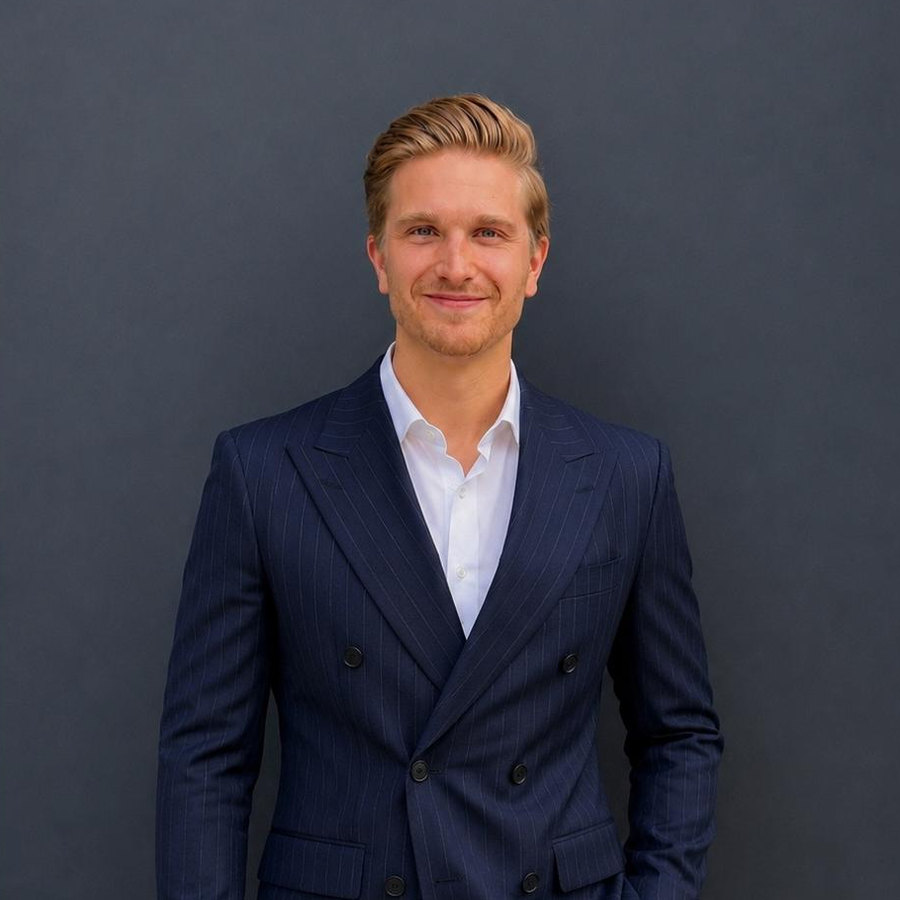
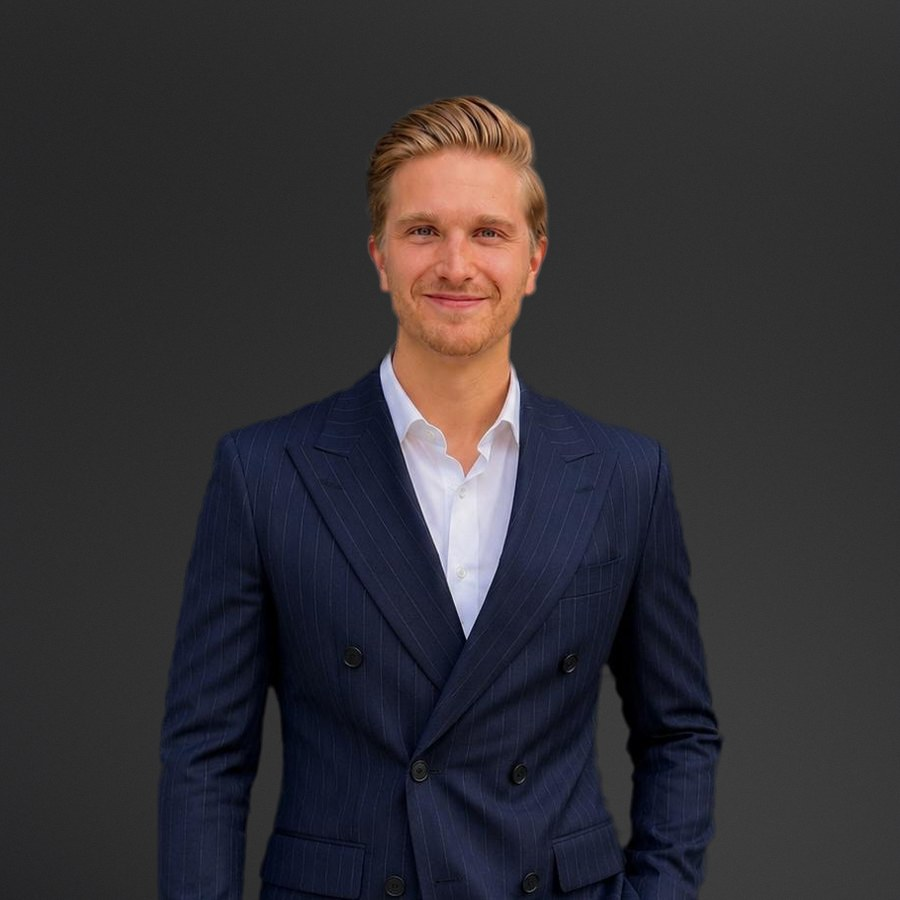
Neue Adresse Frankentalerstrasse 54, 8049 Zürich; Kevin Kigle (Partner) auf Über-uns; Porträts mit dunklem Hintergrund

diff --git a/src/pages/UeberUnsPage.tsx b/src/pages/UeberUnsPage.tsx
@@ -2,6 +2,7 @@ import { motion } from "framer-motion";
 import { Linkedin } from "lucide-react";
 import { Helmet } from "react-helmet-async";
 import maxImg from "@/assets/max-schoenpflug-portrait.jpeg";
+import kevinImg from "@/assets/kevin-kigle-portrait.jpeg";
 import Seo from "@/components/Seo";
 
 const aboutSchema = {
@@ -132,6 +133,48 @@ export default function UeberUnsPage() {
                   <Linkedin className="h-4 w-4" />
                   LinkedIn
                 </a>
+              </div>
+            </motion.div>
+          </div>
+          <div className="mt-24 md:mt-32 max-w-4xl md:ml-auto">
+            <motion.p {...fadeUp} className="mb-8 text-xs font-bold uppercase tracking-[0.3em] text-accent md:text-right">
+              Partner
+            </motion.p>
+            <motion.div
+              initial={{ opacity: 0, y: 40 }}
+              whileInView={{ opacity: 1, y: 0 }}
+              viewport={{ once: true }}
+              transition={{ duration: 0.6 }}
+              className="grid md:grid-cols-[1fr_320px] gap-8 md:gap-12 items-start"
+            >
+              <div className="order-2 md:order-1 md:text-right">
+                <h3 className="text-2xl md:text-3xl font-bold uppercase tracking-tight">Kevin Kigle</h3>
+                <p className="mt-6 text-justify text-lg font-light leading-relaxed text-brand-surface-foreground/72">
+                  Ich kenne die Besetzung von Stellen aus drei Blickwinkeln. In der Personalabteilung eines Unternehmens, im Austausch mit den Fachabteilungen, die am Ende mit der neuen Person arbeiten und als Berater von aussen. Dabei ist mir aufgefallen, dass diese drei Seiten oft aneinander vorbeireden.
+                </p>
+                <p className="mt-4 text-justify text-lg font-light leading-relaxed text-brand-surface-foreground/72">
+                  Mit ScaleZ möchte ich das ändern und Klartext reden!
+                </p>
+                <a
+                  href="https://www.linkedin.com/in/kevin-kigle/"
+                  target="_blank"
+                  rel="noreferrer"
+                  className="mt-8 inline-flex items-center gap-2 border border-accent px-4 py-2.5 text-xs font-bold uppercase tracking-[0.15em] text-accent transition-colors hover:bg-accent hover:text-accent-foreground"
+                >
+                  <Linkedin className="h-4 w-4" />
+                  LinkedIn
+                </a>
+              </div>
+              <div className="order-1 md:order-2 aspect-square overflow-hidden bg-brand-surface-foreground/10">
+                <img
+                  src={kevinImg}
+                  alt="Kevin Kigle – Partner bei ScaleZ"
+                  width="900"
+                  height="900"
+                  loading="lazy"
+                  decoding="async"
+                  className="w-full h-full object-cover"
+                />
               </div>
             </motion.div>
           </div>

diff --git a/src/pages/ImpressumPage.tsx b/src/pages/ImpressumPage.tsx
@@ -13,7 +13,7 @@ export default function ImpressumPage() {
     <>
       <Seo
         title="Impressum – ScaleZ GmbH"
-        description="Impressum der ScaleZ GmbH, Eggbühlstrasse 24, 8050 Zürich. Angaben zu Geschäftsführung und Handelsregister."
+        description="Impressum der ScaleZ GmbH, Frankentalerstrasse 54, 8049 Zürich. Angaben zu Geschäftsführung und Handelsregister."
         path="/impressum"
       />
       <section className="pt-32 pb-14">
@@ -37,8 +37,8 @@ export default function ImpressumPage() {
               <p className="mb-4 text-xs font-bold uppercase tracking-[0.3em] text-accent">Unternehmen</p>
               <div className="space-y-2 font-light leading-relaxed text-muted-foreground">
                 <p>ScaleZ GmbH</p>
-                <p>Eggbühlstrasse 24</p>
-                <p>8050 Zürich</p>
+                <p>Frankentalerstrasse 54</p>
+                <p>8049 Zürich</p>
                 <p>Schweiz</p>
               </div>
             </motion.section>

diff --git a/src/components/PrivacyNotice.tsx b/src/components/PrivacyNotice.tsx
@@ -8,7 +8,7 @@ export default function PrivacyNotice({ retention }: Props) {
   return (
     <div className="rounded-sm border border-border bg-muted/30 p-3 text-[11px] leading-relaxed text-muted-foreground">
       <strong className="text-foreground">Datenschutz-Kurzinfo:</strong> Verantwortlich ist die
-      ScaleZ GmbH, Eggbühlstrasse 24, 8050 Zürich. Wir verarbeiten deine Angaben zur Bearbeitung
+      ScaleZ GmbH, Frankentalerstrasse 54, 8049 Zürich. Wir verarbeiten deine Angaben zur Bearbeitung
       deiner Anfrage auf Grundlage von Art. 6 Abs. 1 lit. b und f DSGVO sowie Art. 31 revDSG, bei
       Bewerbungsunterlagen zusätzlich auf Grundlage deiner Einwilligung. Empfänger sind Brevo
       (E-Mail-Versand, EU), Cloudflare (Hosting, DPF) und Microsoft 365 (E-Mail-Empfang).

diff --git a/src/pages/DatenschutzPage.tsx b/src/pages/DatenschutzPage.tsx
@@ -10,7 +10,7 @@ const fadeUp = {
 
 const headerLines = [
   "ScaleZ GmbH",
-  "Eggbühlstrasse 24, 8050 Zürich, Schweiz",
+  "Frankentalerstrasse 54, 8049 Zürich, Schweiz",
   "E-Mail: info@scale-z.ch · Telefon: +41 79 704 60 00",
   "Stand: 04.2026",
 ];
@@ -29,8 +29,8 @@ const sections = [
     paragraphs: [
       "Verantwortlich für die Datenbearbeitung ist:",
       "ScaleZ GmbH",
-      "Eggbühlstrasse 24",
-      "8050 Zürich, Schweiz",
+      "Frankentalerstrasse 54",
+      "8049 Zürich, Schweiz",
       "E-Mail: info@scale-z.ch",
       "Telefon: +41 79 704 60 00",
       "Für alle Fragen zum Datenschutz, zur Ausübung Ihrer Rechte sowie für Beschwerden wenden Sie sich bitte an info@scale-z.ch.",

diff --git a/src/components/Footer.tsx b/src/components/Footer.tsx
@@ -29,7 +29,7 @@ export default function Footer() {
                 Kontakt
               </p>
               <p className="text-[0.82rem] font-medium leading-[1.1] text-brand-surface-foreground md:text-[0.88rem]">
-                Eggbühlstrasse 24, 8050 Zürich, Schweiz
+                Frankentalerstrasse 54, 8049 Zürich, Schweiz
               </p>
               <div className="flex flex-wrap items-center justify-center gap-x-2 gap-y-0.5 text-[0.74rem] leading-[1.2] text-brand-surface-foreground/70 md:text-[0.82rem] dark:text-brand-surface-foreground/72">
                 <a href="tel:+41797046000" className="transition-colors hover:text-accent">

diff --git a/src/pages/KontaktPage.tsx b/src/pages/KontaktPage.tsx
@@ -24,8 +24,8 @@ const contactPageSchema = {
     email: "info@scale-z.ch",
     address: {
       "@type": "PostalAddress",
-      streetAddress: "Eggbühlstrasse 24",
-      postalCode: "8050",
+      streetAddress: "Frankentalerstrasse 54",
+      postalCode: "8049",
       addressLocality: "Zürich",
       addressCountry: "CH",
     },
@@ -58,7 +58,7 @@ const contactInfo = [
     icon: MapPin,
     label: "Standort",
     value: "Z\u00fcrich, Schweiz",
-    href: "https://maps.google.com/?q=Eggb\u00fchlstrasse+24+8050+Z\u00fcrich",
+    href: "https://maps.google.com/?q=Frankentalerstrasse+54+8049+Z\u00fcrich",
   },
   {
     icon: Linkedin,

diff --git a/src/pages/BlogArticlePage.tsx b/src/pages/BlogArticlePage.tsx
@@ -3,7 +3,7 @@ import { motion } from "framer-motion";
 import { ArrowLeft, Clock3 } from "lucide-react";
 import { Link, useParams } from "react-router-dom";
 import { Helmet } from "react-helmet-async";
-import maxImg from "@/assets/max-schoenpflug.jpeg";
+import maxImg from "@/assets/max-schoenpflug-avatar.jpeg";
 import { Button } from "@/components/ui/button";
 import { getBlogPost } from "@/data/content";
 import { cn } from "@/lib/utils";

diff --git a/index.html b/index.html
@@ -53,8 +53,8 @@
         "vatID": "CHE-381.331.169",
         "address": {
           "@type": "PostalAddress",
-          "streetAddress": "Eggbühlstrasse 24",
-          "postalCode": "8050",
+          "streetAddress": "Frankentalerstrasse 54",
+          "postalCode": "8049",
           "addressLocality": "Zürich",
           "addressCountry": "CH"
         },
